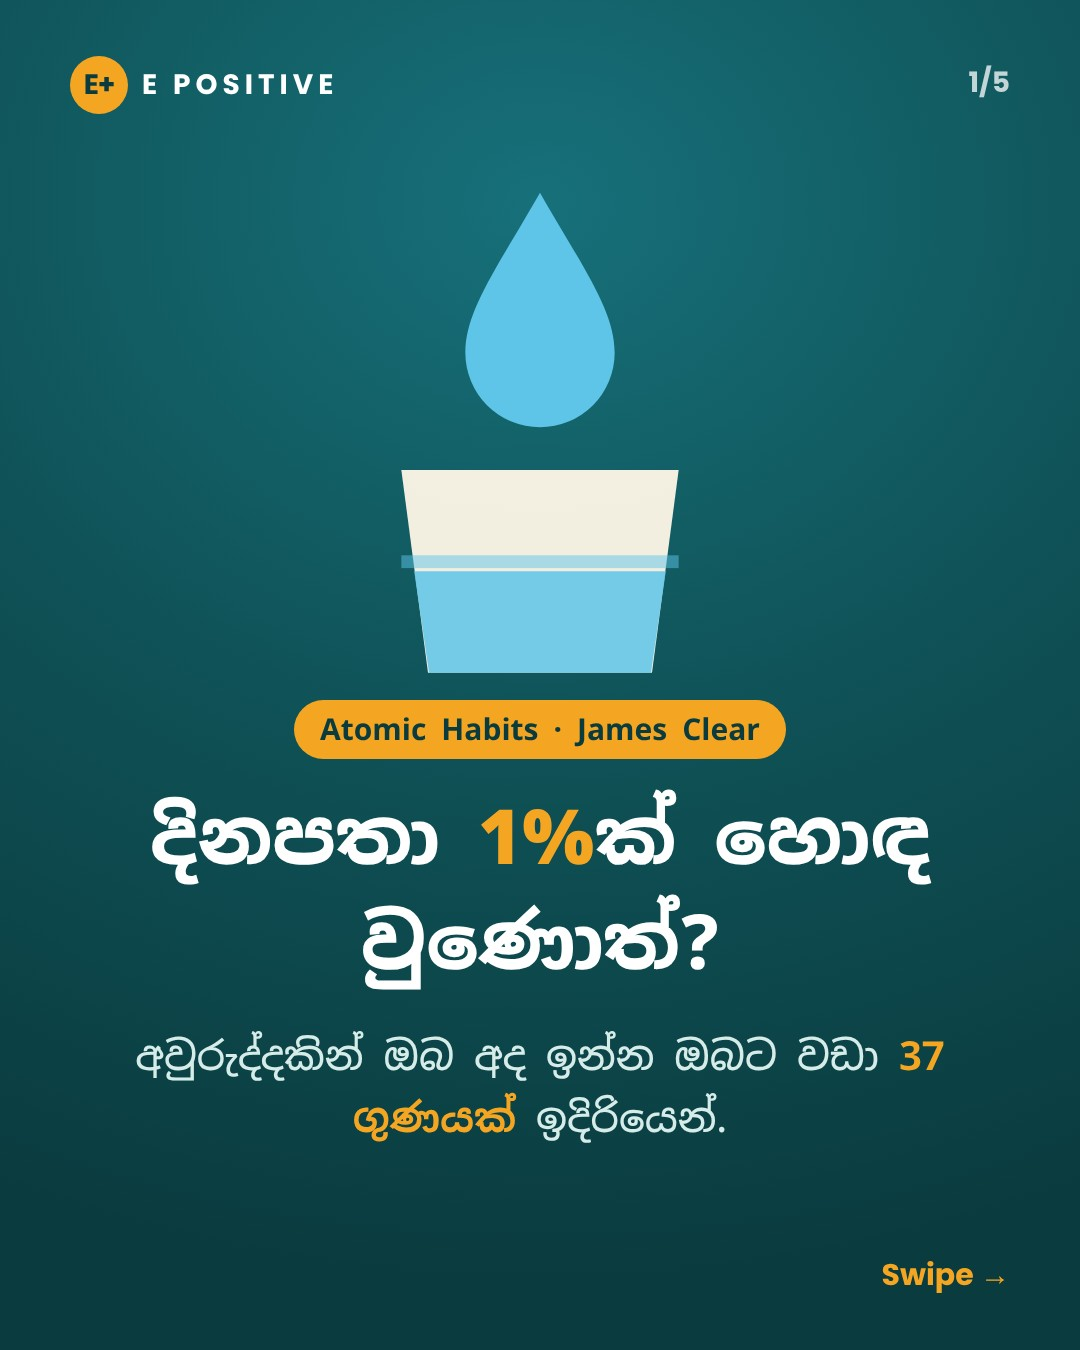
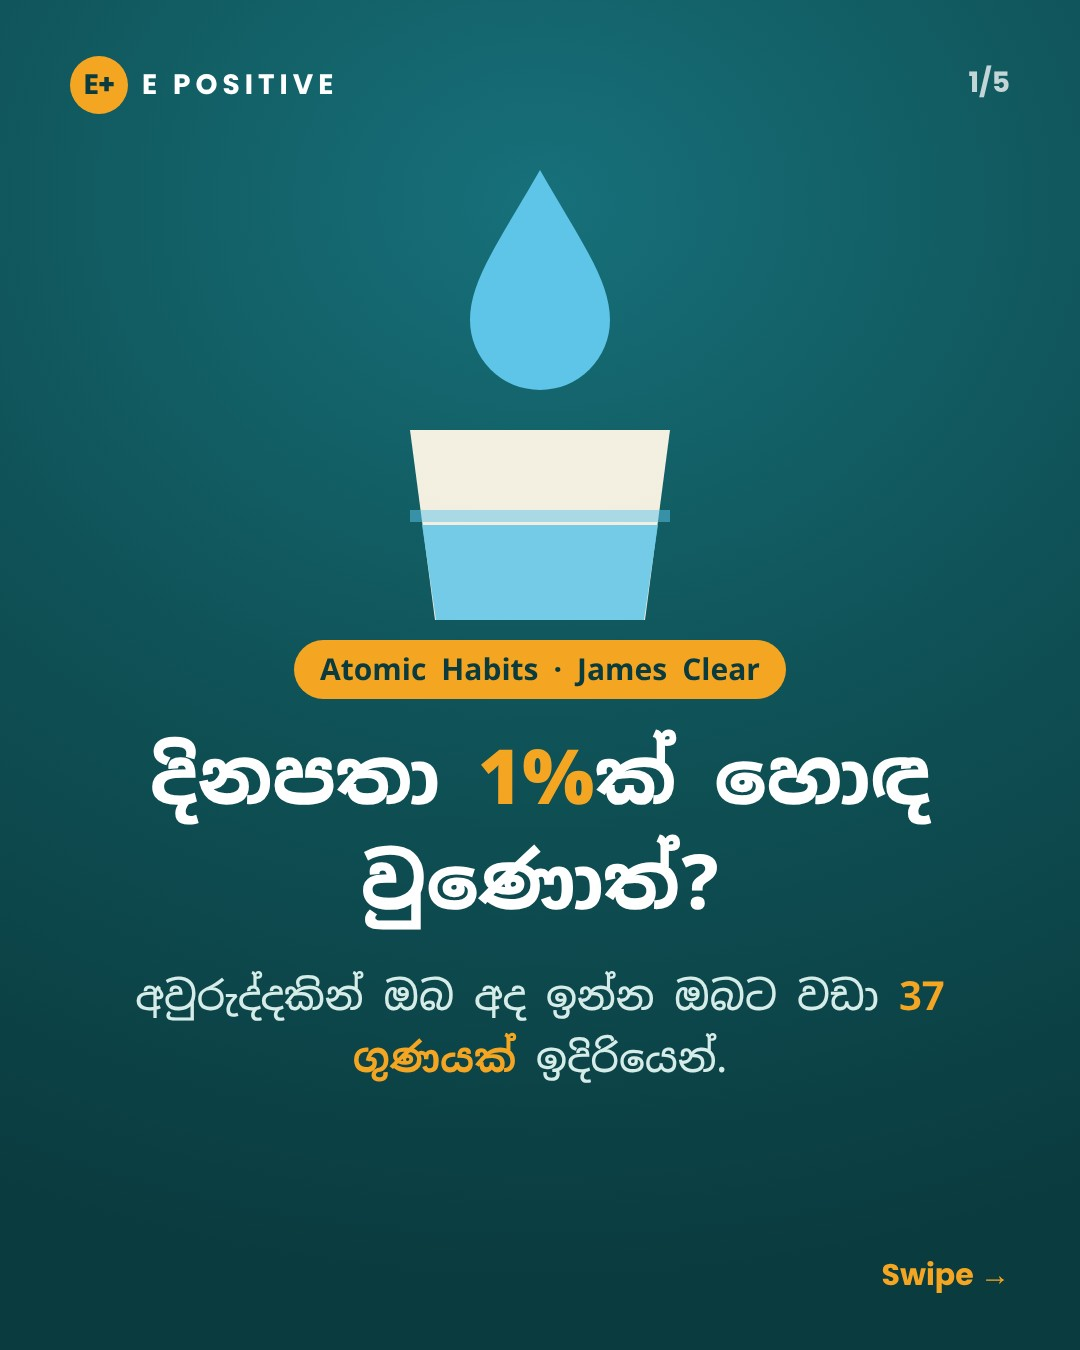
E Positive: card layout tweak, 29 Oct image
Claude-Session: https://claude.ai/code/session_015tSeo1cykgTLmSM4AjcUo5

Changed region(s): [[0.1222, 0.1556, 0.8861, 0.84], [0.4889, 0.1244, 0.5194, 0.1556], [0.4583, 0.1556, 0.4889, 0.1867]]

diff --git a/epositive/pipeline/cards.py b/epositive/pipeline/cards.py
@@ -99,8 +99,8 @@ def render(post, outdir):
                 if not has_art:
                     center = "bottom:120px;display:flex;flex-direction:column;justify-content:center;align-items:center"
             else:
-                art_html = f"<div class='art' style='top:150px'>{ART[s['art']]}</div>" if has_art else ""
-                artw, ttop = 640, (700 if has_art else 360)
+                art_html = f"<div class='art' style='top:130px'>{ART[s['art']]}</div>" if has_art else ""
+                artw, ttop = 600, (640 if has_art else 360)
             if kind == "cta":
                 foot = "<div class='foot'>ඔබේ යාළුවෙක්ට <b>share</b> කරන්න · E Positive follow කරන්න</div>"
             elif n > 1 and i < n:
